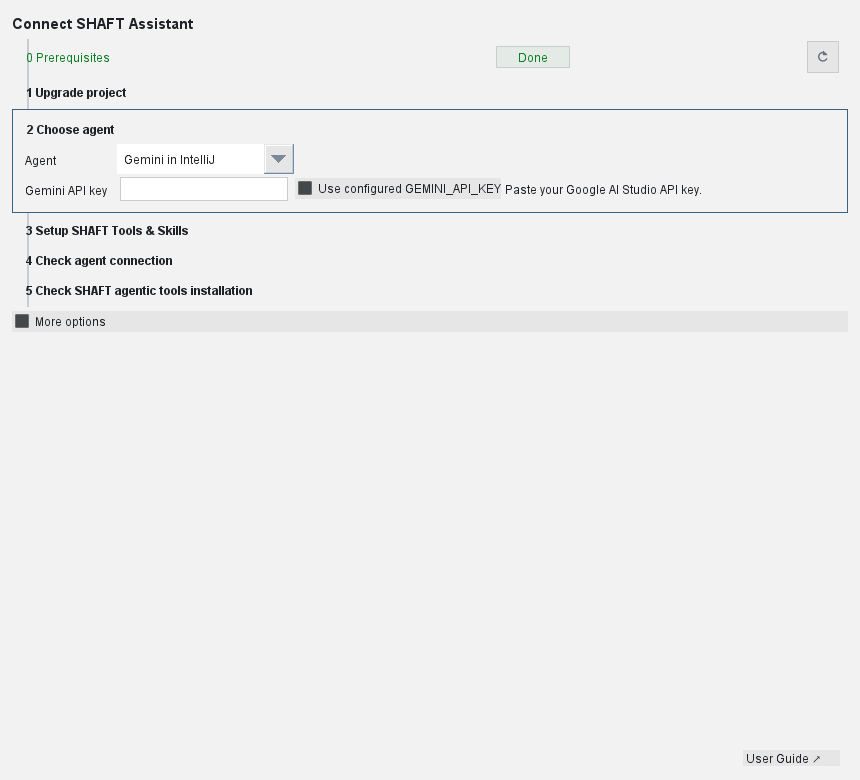
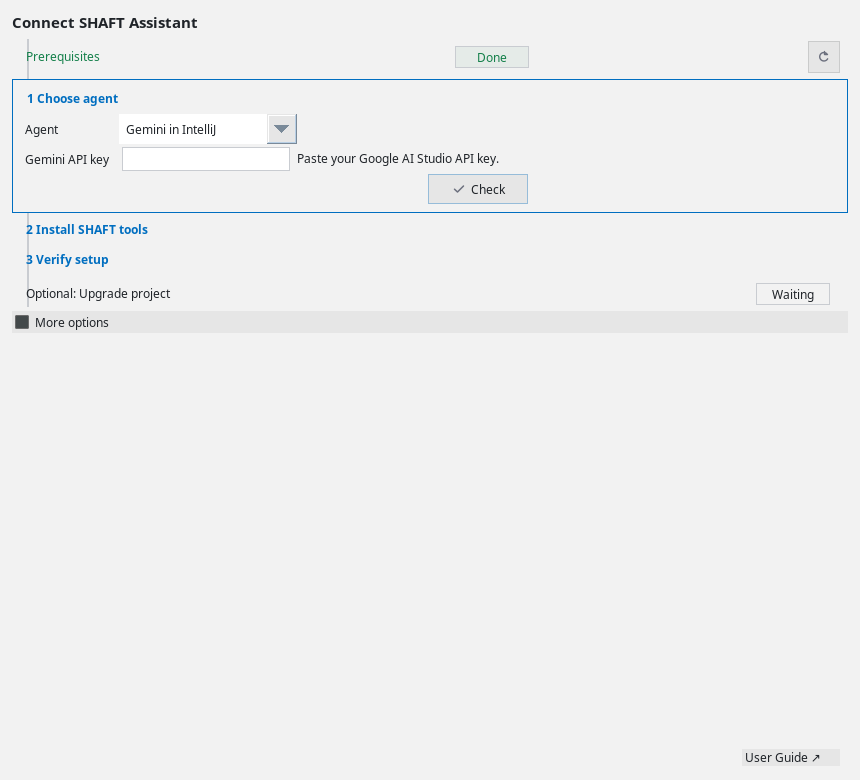
docs: simplify IntelliJ setup journey

diff --git a/docs/agentic/intellij.md b/docs/agentic/intellij.md
@@ -23,60 +23,30 @@ Install the plugin from JetBrains Marketplace when it is published, then open
 IntelliJ IDEA when the IDE prompts for restart so the SHAFT tool window and
 actions are fully registered. The core Assistant tool window can load without
 IntelliJ's Java plugin; Java-specific actions are registered only when Java
-support is available. First run shows a six-step setup inside the tool window:
+support is available. First run shows a short wizard inside the tool window:
 
-0. **Prerequisites** detects the tools the setup flow depends on — Python 3,
-   Java, Maven, Node.js (only when the selected agent CLI is missing and needs
-   npm), and the selected agent CLI itself. Every missing tool gets a
-   **Copy** button with a simple per-OS terminal command
-   (winget, Homebrew, or apt) so a fresh machine can be provisioned entirely
-   from this screen; **Recheck** re-detects after you install something. A
-   **Copy** button copies a Maven command that
-   pre-downloads SHAFT Engine and its dependencies into the local Maven
-   repository so future projects skip re-downloading them; the command pins
-   the latest released engine version (resolved live from Maven Central, with
-   the plugin's own release as the offline fallback) rather than a Maven
-   meta-version. Java and Maven are
-   advisory: the SHAFT MCP installer bootstraps its own Java when none is
-   found.
-1. **Upgrade project** runs a real check: the plugin reads the open project's
-   `pom.xml`, finds its SHAFT version, and compares it against the latest
-   released engine version. A project already on the latest release — or on a
-   newer local development build — shows **Done** immediately with nothing to
-   do. Otherwise the step explains exactly what it found (current vs. latest
-   version, or that the project has no SHAFT dependency yet), **Copy**
-   copies the upgrade command *and opens an IntelliJ terminal with it
-   pre-typed* so you only press Enter, and **Check** re-runs the comparison
-   after the upgrade finishes. See the [Upgrade guide](/docs/start/upgrade)
-   for what that command does.
-2. **Choose agent** starts unselected with a **Select an option** placeholder.
-   Copy and later checks stay disabled until you pick a route. Codex CLI remains
-   selectable; it is never recommended and never a silent default. Choose one
-   complete route: Codex CLI, Claude Code, Claude Desktop, Grok CLI, GitHub
-   Copilot CLI, GitHub Copilot in IntelliJ, or Gemini in IntelliJ. Gemini uses a
-   Google AI Studio API key instead of a local runtime. The Grok route installs
-   `--client grok` and verifies the `grok` executable on PATH. This step has no
-   **Check** button. External desktop and IDE runtimes stay unverified when the
-   plugin cannot observe their state.
-3. **Setup SHAFT Tools & Skills** copies
-   the Agentic Tools installer command for the selected route and opens an
-   IntelliJ terminal with the command pre-typed. Press Enter there to run it.
-   The copied command downloads `scripts/mcp/install-shaft-agentic-tools` from
-   `main`. The plugin never executes that installer. The step shows **Done**
-   only when an installed `shaft-mcp` is really found on disk, never just
-   because a button was clicked.
-4. **Check agent connection** is the existing agent-readiness probe. It confirms
-   the selected CLI or cloud route can run. It does not claim that SHAFT tools
-   are installed.
-5. **Check SHAFT agentic tools installation** finds the installed SHAFT MCP command
-   automatically, verifies the workspace, and additionally asks the selected
-   agent CLI itself whether it can access `shaft-mcp` (for example via
-   `claude mcp get shaft-mcp` or `grok` / `codex` equivalents), so after a
-   plugin update plus a reinstall you get a real "your CLI can now use
-   shaft-mcp" verdict. When the CLI sees `shaft-mcp` but cannot connect —
-   typical when a CLI session that predates the reinstall is still running — a
-   **Copy** button copies a terminal command that stops stale
-   CLI processes and re-verifies access. Success reveals **Start chatting**.
+0. **Prerequisites** detects Python 3, Java, Maven, Node.js when needed, and the
+   selected agent CLI. Missing tools and the optional SHAFT Engine warm-up use
+   **Open in Terminal**; **Recheck** detects them again after installation.
+1. **Choose agent** starts unselected with a **Select an option** placeholder.
+   Choose Codex CLI, Claude Code, Claude Desktop, Grok CLI, GitHub Copilot CLI,
+   GitHub Copilot in IntelliJ, or Gemini in IntelliJ. **Check** validates the
+   chosen route when the plugin can observe it.
+2. **Install SHAFT tools** prepares the route-specific Agentic Tools installer
+   through **Open in Terminal**. Press Enter in Terminal to run it. The plugin
+   copies the command as a fallback but never executes the installer itself.
+3. **Verify setup** finds the installed SHAFT MCP command, verifies the
+   workspace, and asks the selected local agent whether it can access
+   `shaft-mcp`. Success reveals **Ready** and **Start chatting**. When a stale
+   CLI session blocks access, recovery also uses **Open in Terminal**.
+
+After verification, **Optional: Upgrade project** unlocks. It reads the open
+project's `pom.xml`, compares its SHAFT version with the latest release, and
+opens the deterministic upgrade command in IntelliJ Terminal. Agent-driven
+upgrades use the upgrader bundled with the installed SHAFT MCP first, announce
+that source, and visibly announce any fallback to the current `origin/main`
+upgrader. Existing source-edit approval covers agent repair only when both
+deterministic paths fail. See the [Upgrade guide](/docs/start/upgrade).
 
 Setup readiness has two lanes. The recorder, persisted-recording codegen,
 Doctor, and Healer only need the verified SHAFT MCP, so when the MCP check
@@ -106,15 +76,15 @@ starts that local command. Copied commands fetch
 one-liners stay `scripts/mcp/install.ps1` and `install.sh`.
 After a command has passed setup, opening SHAFT shows the Assistant view.
 Without a verified MCP command, the landing view keeps the click-through setup
-visible. Unverified settings stay behind the same setup gate until **Check
-SHAFT agentic tools installation** passes.
+visible. Unverified settings stay behind the same setup gate until
+**Verify setup** passes.
 
-![SHAFT IntelliJ Assistant setup wizard with Prerequisites marked Done, Choose agent expanded on Select an option, Setup SHAFT Tools and Skills next, then Check agent connection and Check SHAFT agentic tools installation](/img/agentic/intellij-plugin-mcp-setup.png)
+![SHAFT IntelliJ Assistant setup wizard with Prerequisites marked Done and Choose agent expanded](/img/agentic/intellij-plugin-mcp-setup.png)
 
 Setup opens with a **Connect SHAFT Assistant** summary and a simple vertical
 stepper with visible state chips, only showing the buttons relevant to the
 current step, so the path reads as
-**Prerequisites -> Upgrade project -> Choose agent -> Setup SHAFT Tools & Skills -> Check agent connection -> Check SHAFT agentic tools installation -> Start chatting**.
+**Prerequisites -> Choose agent -> Install SHAFT tools -> Verify setup -> Ready -> Optional: Upgrade project**.
 Every state chip reflects a real verification of what is on the machine or in
 the project — never a "you clicked the button" heuristic — and a check that
 ran and did not pass shows an explicit red **Failed** chip with recovery
@@ -145,9 +115,9 @@ instead of an external agent CLI.
 
 ![SHAFT IntelliJ Assistant setup wizard with Gemini in IntelliJ selected and an empty Gemini API key field for pasting a Google AI Studio key](/img/agentic/intellij-plugin-mcp-setup-gemini.png)
 
-![Completed SHAFT IntelliJ Assistant setup showing Check SHAFT agentic tools installation marked Done, Choose agent still waiting on Select an option, and a Ready row with Start without an agent](/img/agentic/intellij-plugin-mcp-setup-success.png)
+![Completed SHAFT IntelliJ Assistant setup showing Verify setup marked Done, Choose agent still waiting on Select an option, and a Ready row with Start without an agent](/img/agentic/intellij-plugin-mcp-setup-success.png)
 
-![SHAFT IntelliJ Assistant setup in dark mode with Check SHAFT agentic tools installation marked Failed and Copy actions for diagnostics and the SHAFT MCP docs link](/img/agentic/intellij-plugin-mcp-setup-error-dark.png)
+![SHAFT IntelliJ Assistant setup in dark mode with Verify setup marked Failed and Copy actions for diagnostics and the SHAFT MCP docs link](/img/agentic/intellij-plugin-mcp-setup-error-dark.png)
 
 Troubleshooting details distinguish the failure type when the plugin can infer
 it:
@@ -160,14 +130,14 @@ it:
   MCP configuration file.
 - **Client runtime**: install the selected client CLI or add it to `PATH`, then
   retry.
-- **MCP command**: rerun the terminal installer, then click **Check SHAFT
-  agentic tools installation** so SHAFT can find the installed command automatically.
-- **MCP probe**: rerun the installer command, then click **Check SHAFT
-  agentic tools installation** once it finishes.
+- **MCP command**: rerun the terminal installer, then click **Verify setup** so
+  SHAFT can find the installed command automatically.
+- **MCP probe**: rerun the installer command, then click **Verify setup** once
+  it finishes.
 
-The setup pane includes one-click actions for copying the SHAFT upgrade
-command, copying the installer command, opening the IntelliJ terminal for
-either, checking setup, and copying diagnostic output.
+The setup pane uses **Open in Terminal** for runnable commands and **Copy** for
+diagnostic output or links. Every terminal action also copies its command as a
+fallback.
 Codex users should verify `codex mcp list`, Claude users should
 verify `claude mcp list` or restart Claude Desktop after desktop config changes,
 GitHub Copilot users should check the Copilot MCP configuration and
@@ -306,8 +276,8 @@ the higher-risk action rewrites.
 
 ### Record and generate a new scenario
 
-Select the Codex local CLI route and complete **Check SHAFT agentic tools
-installation** before you start. The protected free-text workflow needs both
+Select the Codex local CLI route and complete **Verify setup** before you start.
+The protected free-text workflow needs both
 the local CLI and a verified `shaft-mcp` connection. Other Assistant chat and
 persisted-recording codegen remain available through their supported routes.
 

diff --git a/DESIGN_LANGUAGE.md b/DESIGN_LANGUAGE.md
@@ -26,6 +26,16 @@ This file is the canonical reference for visual styling changes in the Docusauru
 - Muted RGB: `223, 245, 244` (`--site-color-muted-rgb`)
 - On-dark: `#f5fdff` (`--site-color-on-dark`)
 
+### Semantic status colors
+
+- Light pass: `#14804a`; dark pass: `#4ade80`.
+- Light warning: `#8a5a00`; dark warning: `#fbbf24`.
+- Light fail: `#c53030`; dark fail: `#ff6b6b`.
+- Primary indicates action, selection, focus, or progress. Progress never uses pass or fail colors.
+- Pass indicates an explicitly passed checkpoint only. Ordinary successful actions remain primary.
+- Fail indicates a failed checkpoint, error, exception, or throwable only.
+- Warning indicates an actionable warning.
+
 ## Typography tokens
 
 - `--site-font-heading`
